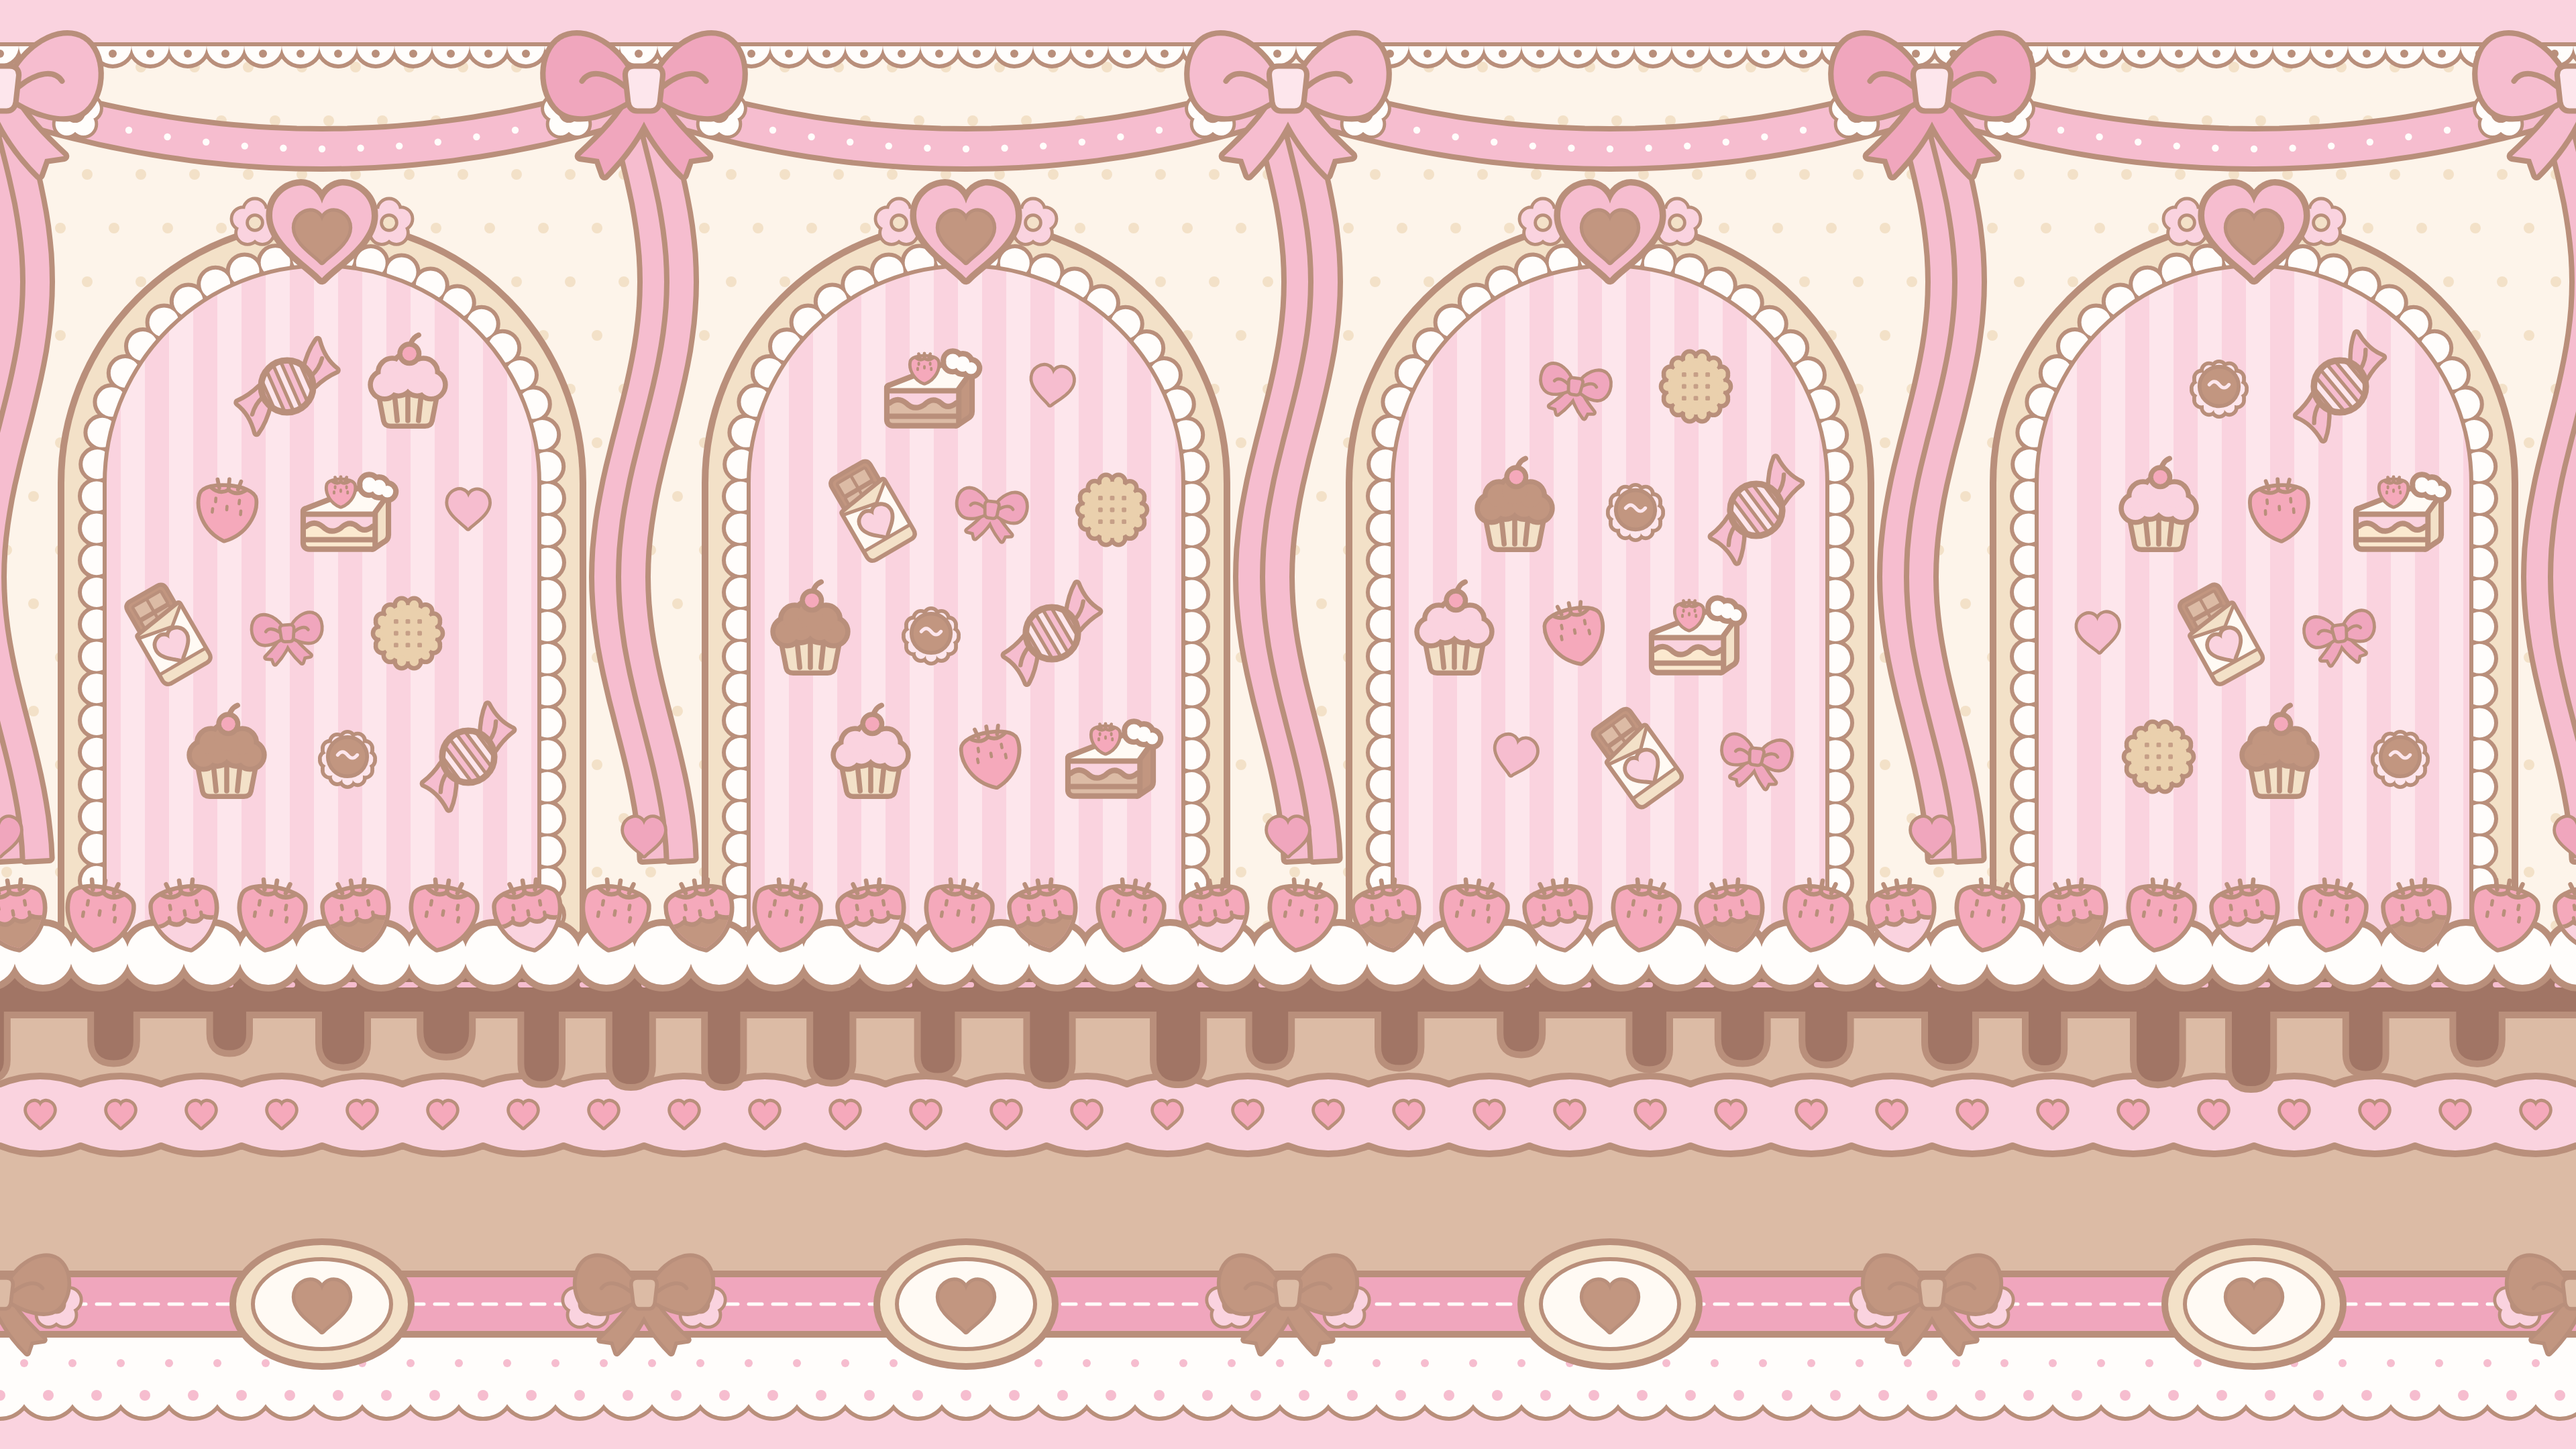
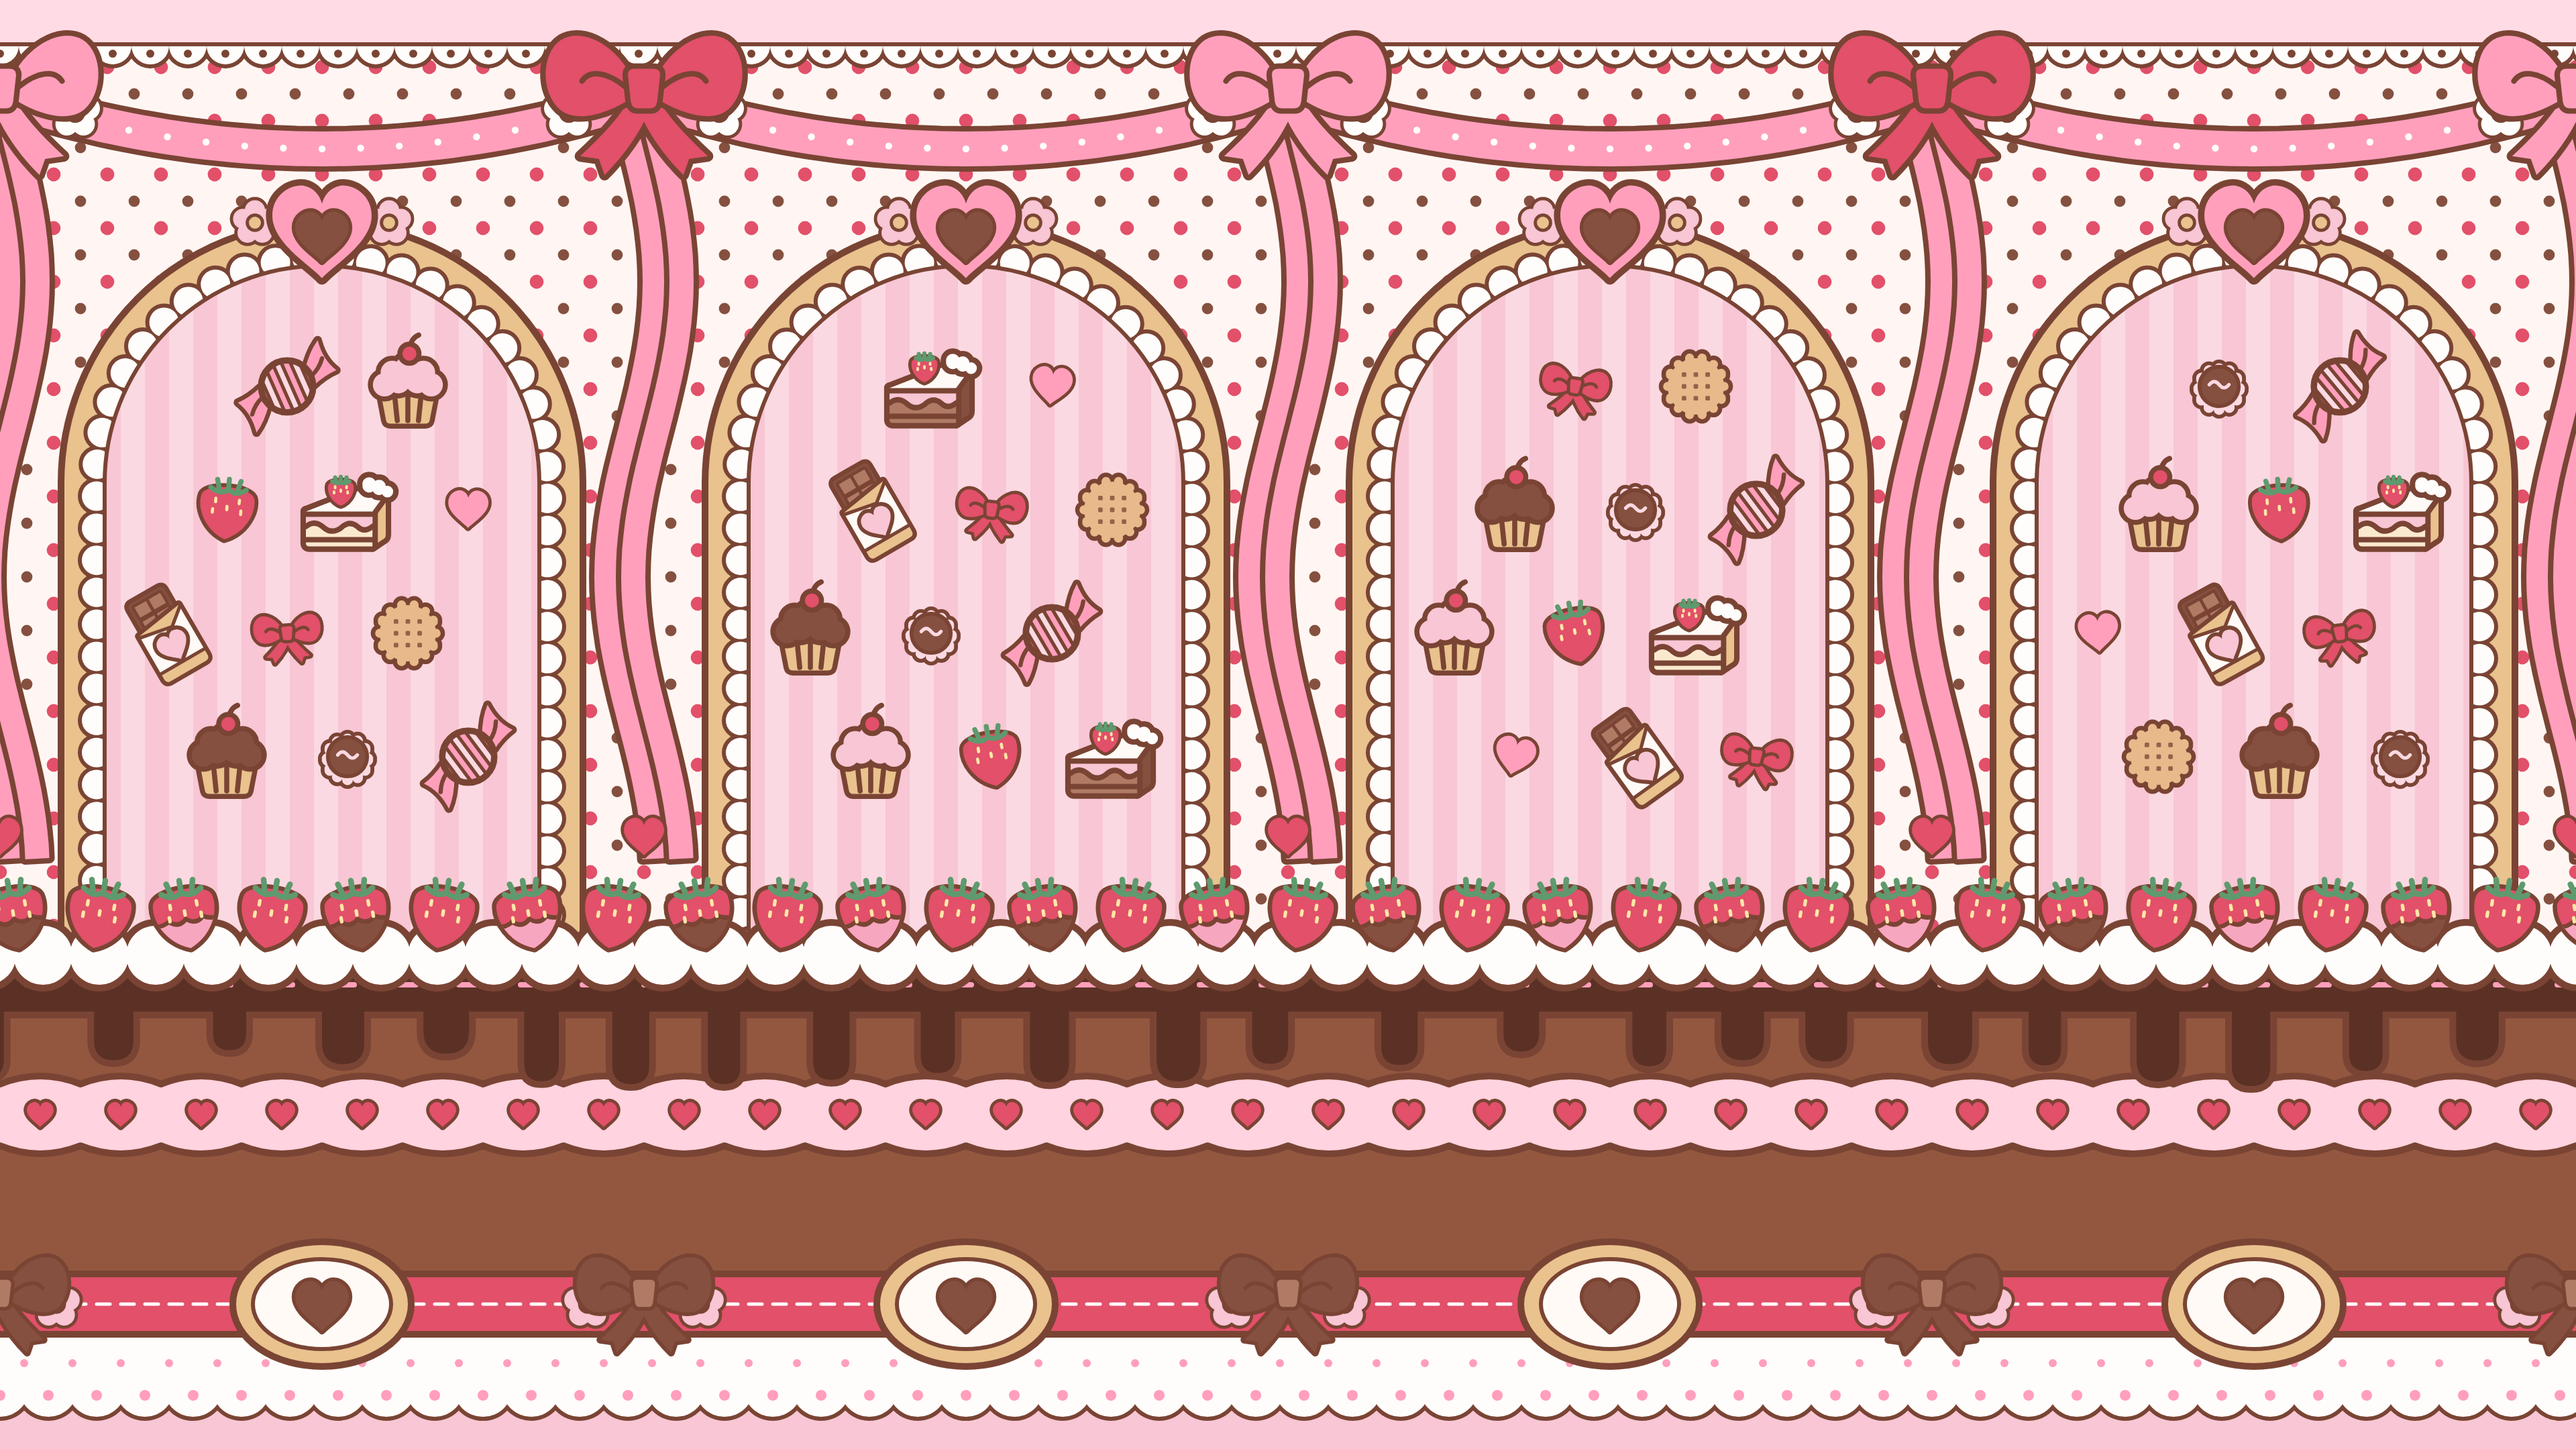
Flat salon: restore original salon color palette
Claude-Session: https://claude.ai/code/session_01JuB6idFz7qSQKoEgW7e81T

diff --git a/choco_flat_bg.html b/choco_flat_bg.html
@@ -13,11 +13,11 @@
 const Q=new URLSearchParams(location.search);
 const W=+(Q.get('w')||1920), H=+(Q.get('h')||1080);
 
-const LINE='#b98f7b';
+const LINE='#7a4434';
 const P={
-  cream:'#fdf4ea', ivory:'#fffaf4', beige:'#f3e1c8', biscuit:'#ead0ad',
-  pink1:'#fde6ec', pink2:'#fad3df', pink3:'#f6bdcf', rose:'#f0a6bd',
-  berry:'#f5a9bb', choco:'#c29680', chocoD:'#a17565', chocoL:'#dcbba5', white:'#fffdfb'
+  cream:'#fff6f3', ivory:'#fffaf6', beige:'#e9c28e', biscuit:'#e8b98a',
+  pink1:'#fbd9e2', pink2:'#f8c6d4', pink3:'#ff9fbc', rose:'#e2506a',
+  berry:'#e2506a', choco:'#85503f', chocoD:'#5c3125', chocoL:'#b07a64', white:'#fffdfb'
 };
 
 // ---------- utils ----------
@@ -71,13 +71,13 @@ function fBerry(cx,cy,s,rot,dip){
   const lw=lwOf(s), T=d=>tp(d,cx,cy,s,rot), id='b'+(uid++);
   let g=O([[T(BERRY),P.berry]],lw);
   if(dip){
-    const col=dip==='choco'?P.choco:dip==='pink'?P.pink2:P.ivory;
+    const col=dip==='choco'?P.choco:dip==='pink'?'#f7a6bf':P.ivory;
     const wave='M-0.6,0.04 Q-0.42,0.16 -0.26,0.06 Q-0.12,0.18 0,0.06 Q0.14,0.18 0.26,0.06 Q0.42,0.16 0.6,0.04';
     g+=`<clipPath id="${id}"><path d="${T(BERRY)}"/></clipPath><g clip-path="url(#${id})"><path d="${T(wave+' L0.6,0.7 L-0.6,0.7 Z')}" fill="${col}"/>${Ln(T(wave),lw)}</g>`;
   }
   for(const [x,y] of [[-0.2,-0.18],[0.2,-0.18],[0,-0.06],[-0.24,0.0],[0.24,0.0]]){ if(dip&&y>0.0)continue;
-    g+=Ln(T(`M${x},${y} L${x},${y+0.06}`),lw*0.8)}
-  g+=Ln(T('M-0.3,-0.36 Q-0.14,-0.24 0,-0.34 Q0.14,-0.24 0.3,-0.36'),lw)+Ln(T('M0,-0.34 L0,-0.52'),lw)+Ln(T('M-0.16,-0.36 L-0.2,-0.5'),lw)+Ln(T('M0.16,-0.36 L0.2,-0.5'),lw);
+    g+=Ln(T(`M${x},${y} L${x},${y+0.06}`),lw*0.8,'#ffe7a6')}
+  const G='#5f9a6e';g+=Ln(T('M-0.3,-0.36 Q-0.14,-0.24 0,-0.34 Q0.14,-0.24 0.3,-0.36'),lw*1.3,G)+Ln(T('M0,-0.34 L0,-0.52'),lw*1.3,G)+Ln(T('M-0.16,-0.36 L-0.2,-0.5'),lw*1.3,G)+Ln(T('M0.16,-0.36 L0.2,-0.5'),lw*1.3,G);
   return g;
 }
 function fCandy(cx,cy,s,rot){
@@ -162,7 +162,7 @@ let svg='';
 
 // ---- ground: cream with flat dots ----
 svg+=`<rect width="${W}" height="${H}" fill="${P.cream}"/>`;
-for(let y=10;y<CAKE_TOP+40;y+=40)for(let x=((y/40)%2)*20;x<W+20;x+=40) svg+=`<circle cx="${x}" cy="${y}" r="${(y/40)%2?4:5.5}" fill="${(y/40)%2?P.beige:P.pink3}"/>`;
+for(let j=0,y=10;y<CAKE_TOP+40;y+=20,j++)for(let x=(j%2)*20;x<W+20;x+=40) svg+=`<circle cx="${x}" cy="${y}" r="${j%2?4.2:5.2}" fill="${j%2?P.choco:P.berry}"/>`;
 
 // ---- arch panels ----
 const arch=(cx,top,hw,bot)=>`M${f(cx-hw)},${bot} L${f(cx-hw)},${f(top+hw)} A${f(hw)},${f(hw)} 0 0 1 ${f(cx+hw)},${f(top+hw)} L${f(cx+hw)},${bot} Z`;
@@ -200,8 +200,8 @@ for(let i=0;i<n;i++){
 }
 
 // ---- top: lace + ribbon swags + bows with wavy tails ----
-svg+=`<rect width="${W}" height="34" fill="${P.pink2}"/>`;
-{let it=[];for(let x=0;x<W+30;x+=28)it.push([circ(x,34,14),P.white]);svg+=O(it,3);svg+=`<rect y="0" width="${W}" height="32" fill="${P.pink2}"/>`+Ln(`M0,33 L${W},33`,3);
+svg+=`<rect width="${W}" height="34" fill="#ffdbe5"/>`;
+{let it=[];for(let x=0;x<W+30;x+=28)it.push([circ(x,34,14),P.white]);svg+=O(it,3);svg+=`<rect y="0" width="${W}" height="32" fill="#ffdbe5"/>`+Ln(`M0,33 L${W},33`,3);
  for(let x=0;x<W+30;x+=28)svg+=`<circle cx="${x}" cy="40" r="3" fill="${LINE}"/>`;}
 for(let i=0;i<=n;i++){
   const gx=i*U;
@@ -217,18 +217,18 @@ for(let i=0;i<n;i++){
   svg+=O([[ribbonPoly(pts,26),P.pink3]],LW*0.8);
   for(let t=0.08;t<0.95;t+=0.06){const x=(1-t)*(1-t)*x1+2*(1-t)*t*(x1+x2)/2+t*t*x2,y=(1-t)*(1-t)*72+2*(1-t)*t*150+t*t*72;svg+=`<circle cx="${f(x)}" cy="${f(y)}" r="2.6" fill="${P.white}"/>`}
 }
-for(let i=0;i<=n;i++){const gx=i*U;svg+=fFlower(gx-56,84,17,P.white)+fFlower(gx+56,84,17,P.white)+fBow(gx,66,70,0,i%2?P.rose:P.pink3,P.pink1)}
+for(let i=0;i<=n;i++){const gx=i*U;svg+=fFlower(gx-56,84,17,P.white)+fFlower(gx+56,84,17,P.white)+fBow(gx,66,70,0,i%2?P.rose:P.pink3)}
 
 // ---- cake border ----
 {
   const gt=CAKE_TOP+52, c1=gt+88, c2=c1+46, rb=H-128;
   // sponge
-  svg+=`<rect x="0" y="${gt}" width="${W}" height="${rb-gt}" fill="${P.chocoL}"/>`;
+  svg+=`<rect x="0" y="${gt}" width="${W}" height="${rb-gt}" fill="#93573f"/>`;
   // pink cream wave layer
   let top=`M0,${c1}`,bot='';
   for(let x=0;x<=W;x+=60){top+=` Q${x+30},${c1-12} ${x+60},${c1}`}
   let wv=`M0,${c2}`;for(let x=0;x<=W;x+=60){wv+=` Q${x+30},${c2+12} ${x+60},${c2}`}
-  svg+=`<path d="${top} L${W+60},${c2} L0,${c2} Z" fill="${P.pink2}"/><path d="${wv} L${W+60},${c1} L0,${c1} Z" fill="${P.pink2}"/>`;
+  svg+=`<path d="${top} L${W+60},${c2} L0,${c2} Z" fill="#ffd3df"/><path d="${wv} L${W+60},${c1} L0,${c1} Z" fill="#ffd3df"/>`;
   svg+=Ln(top,LW)+Ln(wv,LW);
   // berry dots in cream
   for(let x=30;x<W;x+=60) svg+=fHeart(x,(c1+c2)/2,20,0,P.berry);
